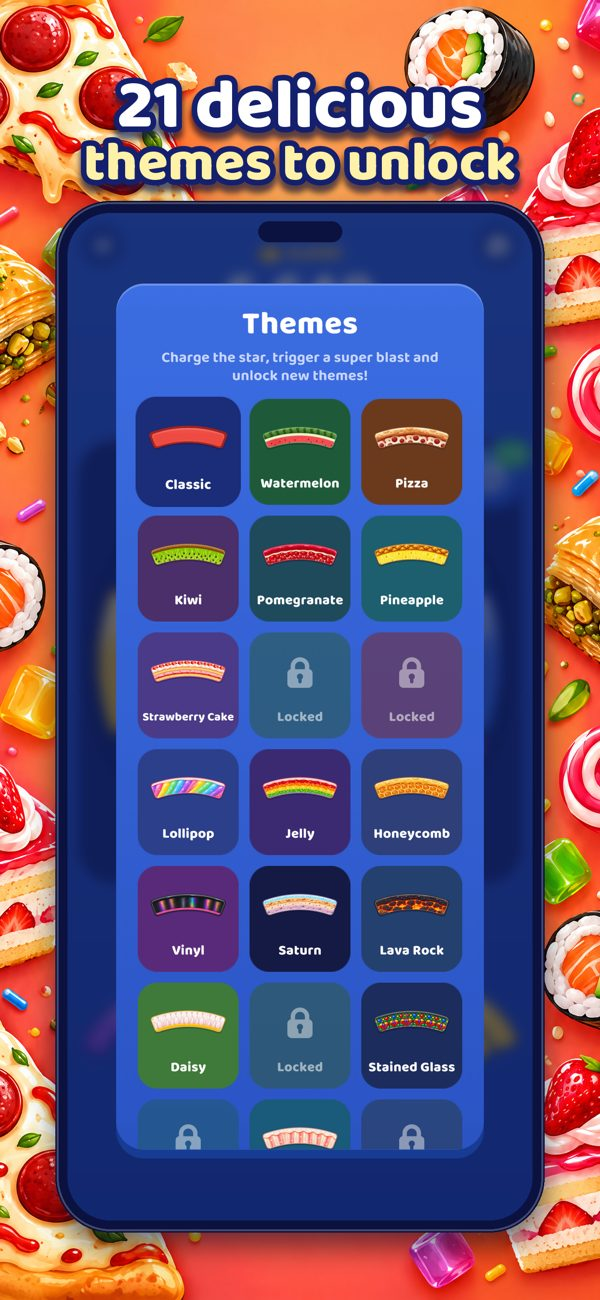
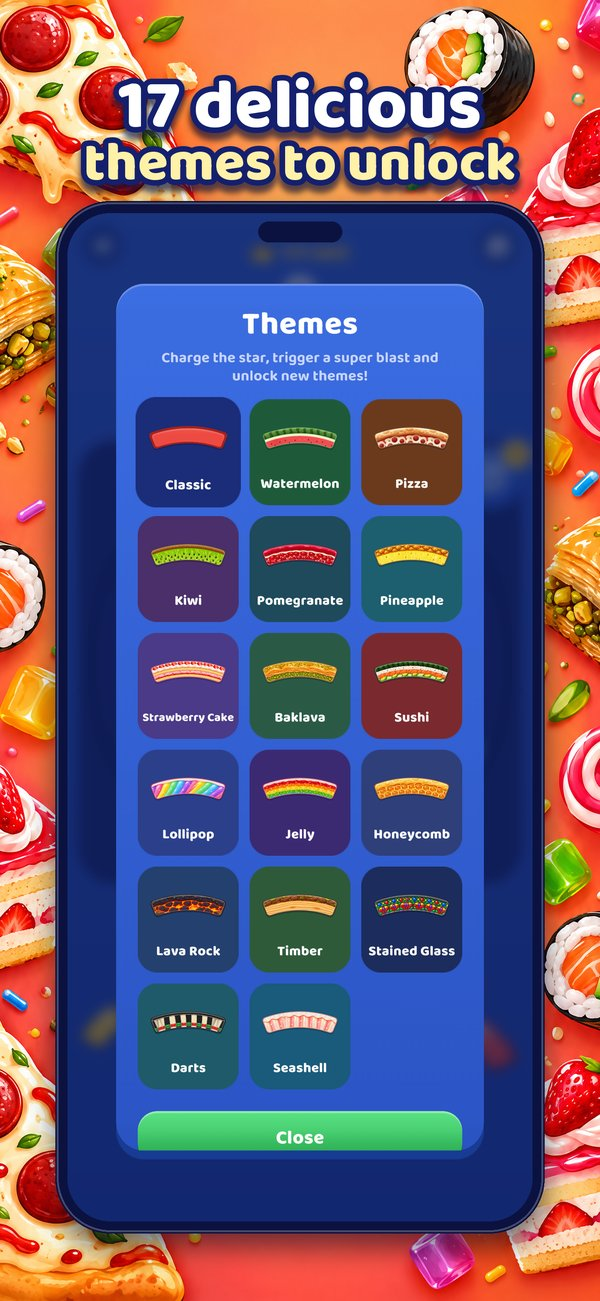
Site: 17 tema, yeni ekran görüntüsü

diff --git a/index.html b/index.html
@@ -4,7 +4,7 @@
 <meta charset="utf-8">
 <meta name="viewport" content="width=device-width,initial-scale=1">
 <title>Ring Smash! — Fill the rings, smash them, unlock tasty themes</title>
-<meta name="description" content="Ring Smash! is a colorful ring puzzle game by Vubbo Labs. Drag curved pieces onto a round board, smash full rings and slices, spin rings and unlock 21 delicious themes.">
+<meta name="description" content="Ring Smash! is a colorful ring puzzle game by Vubbo Labs. Drag curved pieces onto a round board, smash full rings and slices, spin rings and unlock 17 delicious themes.">
 <meta property="og:title" content="Ring Smash! by Vubbo Labs">
 <meta property="og:description" content="Fill the rings. Smash them. Unlock tasty themes.">
 <meta property="og:image" content="https://vubbolabs.github.io/og.jpg">
@@ -30,7 +30,7 @@
     <div>
       <span class="tag">New puzzle game</span>
       <h1><span class="r">R</span><span class="i">i</span><span class="n">n</span><span class="g">g</span> <span class="smash">Smash!</span></h1>
-      <p class="lead">Drag curved pieces onto a round board. Fill a ring or a slice — and smash it! Chain combos, spin a ring to save the day and unlock 21 delicious themes.</p>
+      <p class="lead">Drag curved pieces onto a round board. Fill a ring or a slice — and smash it! Chain combos, spin a ring to save the day and unlock 17 delicious themes.</p>
       <div class="stores">
         <a class="store" href="#follow" aria-label="App Store"><span class="ic">▶</span><span><small>Download on the</small><b>App Store</b></span></a>
         <a class="store" href="#follow" aria-label="Google Play"><span class="ic">▶</span><span><small>Get it on</small><b>Google Play</b></span></a>
@@ -50,7 +50,7 @@
       <div class="feat"><div class="ico c1"><img src="icon_check.png" alt=""></div><h3>Fill &amp; smash</h3><p>Complete a full ring, or a slice from the center outwards, and watch it burst into pieces.</p></div>
       <div class="feat"><div class="ico c2"><img src="icon_restart.png" alt=""></div><h3>Spin a ring</h3><p>Stuck? Turn a ring with your finger to line up the gap. Spin smashes score double.</p></div>
       <div class="feat"><div class="ico c3"><img src="icon_heart.png" alt=""></div><h3>Combo chains</h3><p>Smash again and again for Nice!, Great!, Amazing! — up to Legendary combos.</p></div>
-      <div class="feat"><div class="ico c4"><img src="icon_palette.png" alt=""></div><h3>21 themes</h3><p>Charge the star for a super blast and a surprise theme: watermelon, sushi, lava, clockwork…</p></div>
+      <div class="feat"><div class="ico c4"><img src="icon_palette.png" alt=""></div><h3>17 themes</h3><p>Charge the star for a super blast and a surprise theme: watermelon, sushi, lava, honeycomb…</p></div>
       <div class="feat"><div class="ico c5"><img src="icon_globe.png" alt=""></div><h3>49 languages</h3><p>The game speaks your language automatically, from Türkçe to 日本語.</p></div>
       <div class="feat"><div class="ico c6"><img src="icon_vibration.png" alt=""></div><h3>Juicy feel</h3><p>Themed smash sounds, haptics and particles make every move satisfying.</p></div>
     </div>
@@ -66,7 +66,7 @@
       <figure><img src="screen2.jpg" alt="Super blast unlocks new themes" loading="lazy" width="600" height="1301"></figure>
       <figure><img src="screen3.jpg" alt="Juicy combos every move" loading="lazy" width="600" height="1301"></figure>
       <figure><img src="screen4.jpg" alt="Spin a ring to save the day" loading="lazy" width="600" height="1301"></figure>
-      <figure><img src="screen5.jpg" alt="21 delicious themes to unlock" loading="lazy" width="600" height="1301"></figure>
+      <figure><img src="screen5.jpg" alt="17 delicious themes to unlock" loading="lazy" width="600" height="1301"></figure>
       <figure><img src="screen6.jpg" alt="Easy to learn, hard to put down" loading="lazy" width="600" height="1301"></figure>
     </div>
   </div>
@@ -89,15 +89,11 @@
       <div class="theme" style="background:#2c3f8f"><img src="theme_lollipop.png" alt=""><span>Lollipop</span></div>
       <div class="theme" style="background:#3b2a72"><img src="theme_jelly.png" alt=""><span>Jelly</span></div>
       <div class="theme" style="background:#2e3f7a"><img src="theme_honeycomb.png" alt=""><span>Honeycomb</span></div>
-      <div class="theme" style="background:#5a2a7a"><img src="theme_vinyl.png" alt=""><span>Vinyl</span></div>
-      <div class="theme" style="background:#151a45"><img src="theme_saturn.png" alt=""><span>Saturn</span></div>
       <div class="theme" style="background:#24406e"><img src="theme_lava.png" alt=""><span>Lava Rock</span></div>
-      <div class="theme" style="background:#3f7a3a"><img src="theme_daisy.png" alt=""><span>Daisy</span></div>
       <div class="theme" style="background:#2e5a3a"><img src="theme_log.png" alt=""><span>Timber</span></div>
       <div class="theme" style="background:#1c2c5c"><img src="theme_glass.png" alt=""><span>Stained Glass</span></div>
       <div class="theme" style="background:#1f5a6a"><img src="theme_dart.png" alt=""><span>Darts</span></div>
       <div class="theme" style="background:#1a5a7a"><img src="theme_shell.png" alt=""><span>Seashell</span></div>
-      <div class="theme" style="background:#2a3a4a"><img src="theme_clockwork.png" alt=""><span>Clockwork</span></div>
     </div>
   </div>
 </section>
